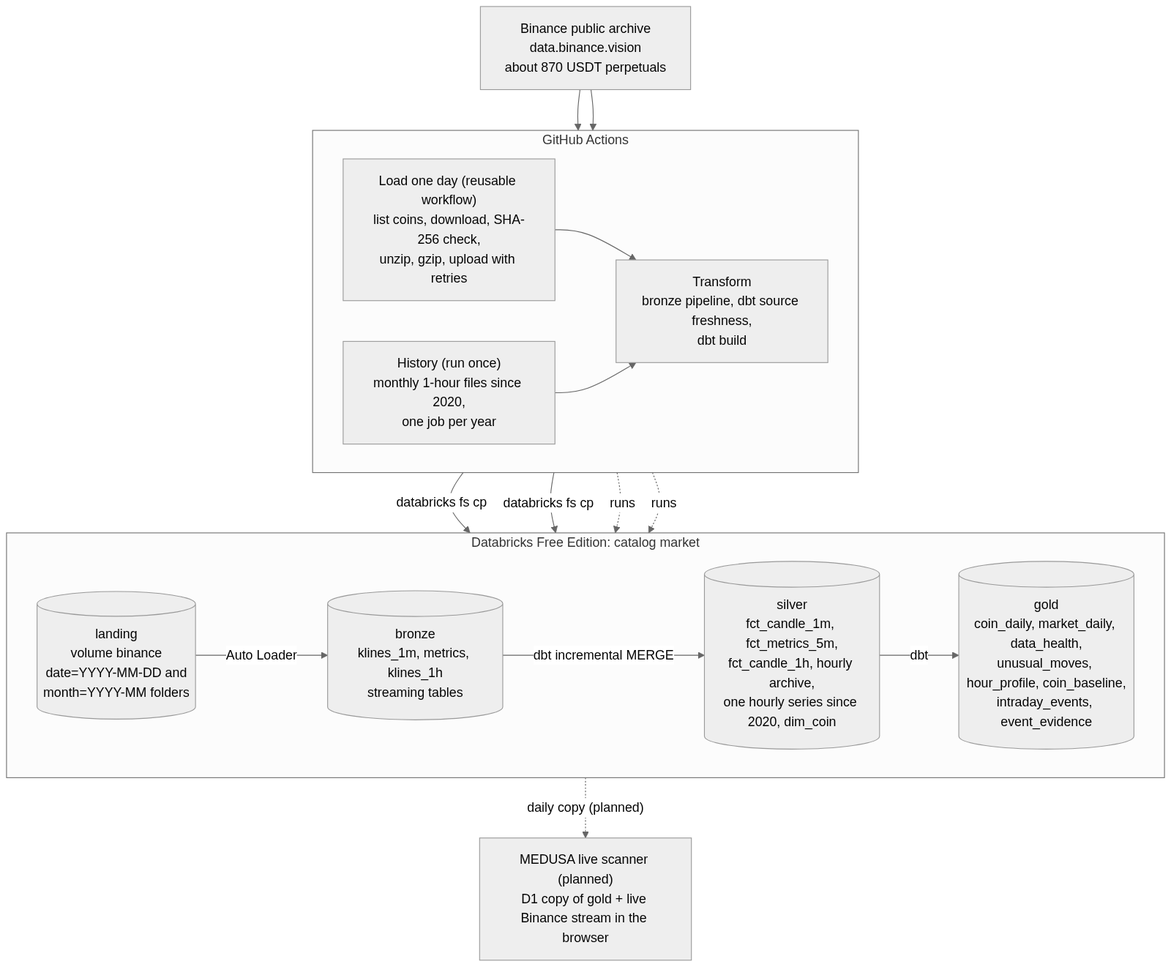
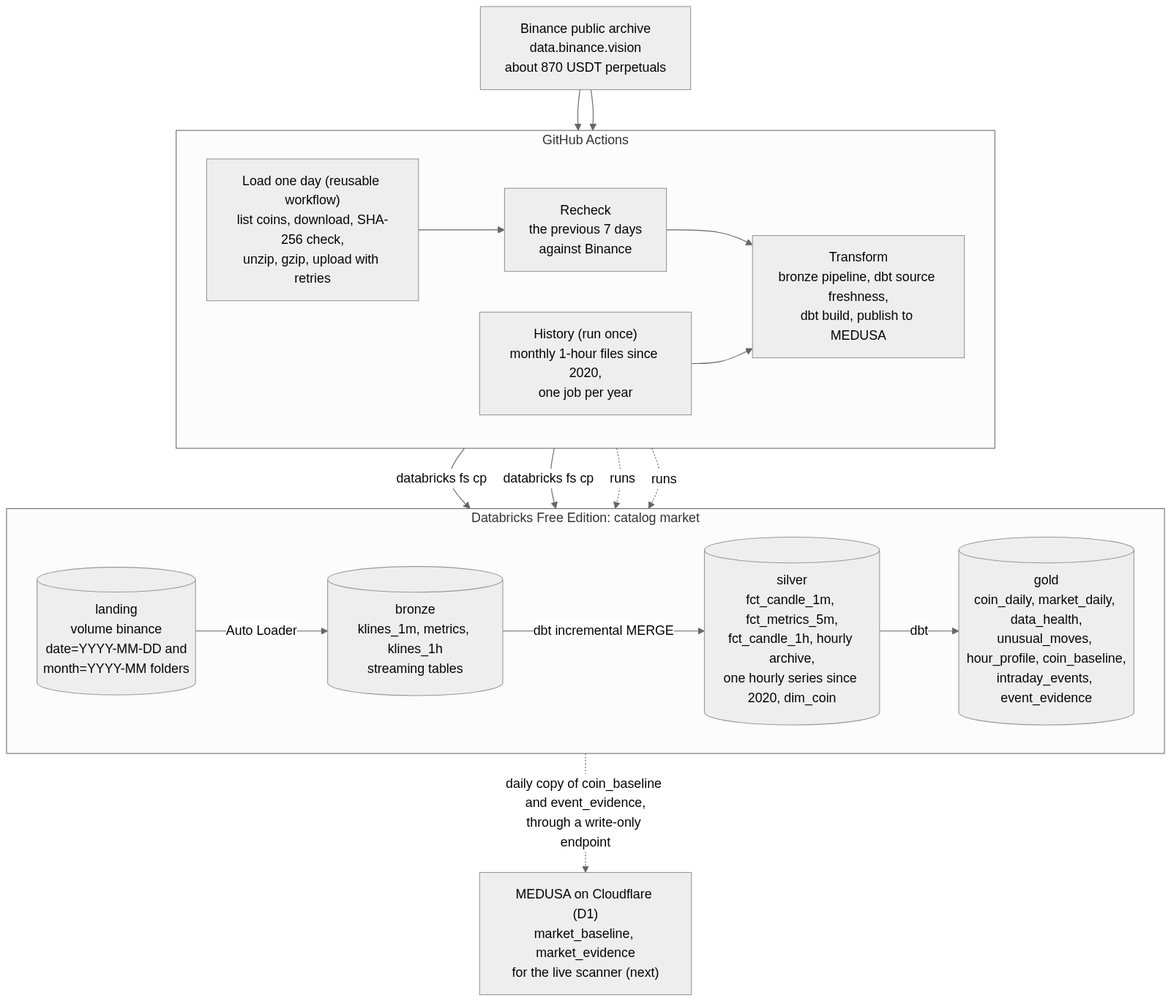
Docs: steps 23-24 (serving tables, publish job), ADR-024, updated diagrams

diff --git a/lakehouse/docs/operations.md b/lakehouse/docs/operations.md
@@ -11,6 +11,7 @@ How the platform runs day to day, and what to do when something goes wrong.
 | Download + upload (`Lakehouse daily load`, job `load`) | 13:23 UTC (18:53 India time), after Binance has published the previous day ([ADR-021](decisions.md#adr-021-load-a-day-only-after-binance-has-finished-publishing-it)). GitHub can start scheduled runs late, by minutes or even hours; the odd minute avoids the busiest start of the hour. | GitHub → **Actions** → Lakehouse daily load |
 | Re-check the previous 7 days (job `recheck`) | Right after the load | The same run's `recheck` job: one line per day ("1814 files checked, 0 changed, 0 new, 0 removed"); a yellow warning on the run's page when Binance changed a file ([ADR-023](decisions.md#adr-023-re-check-loaded-days-against-binance-for-a-week)) |
 | Bronze, freshness check, `dbt build` (job `transform`) | Right after a successful upload, in the same run | The same run's `transform` job; Databricks → **Jobs & Pipelines** → lakehouse-bronze for the pipeline |
+| Publish to MEDUSA (last step of `transform`) | Only after every dbt test passed | The run's summary page: a table of gold rows against MEDUSA rows per table, all "OK" ([ADR-024](decisions.md#adr-024-a-write-only-endpoint-for-the-serving-copy)) |
 | Check the result | After the run | The last line of `dbt build` in the log; `market.gold.data_health` for the new day |
 
 A failed scheduled run sends GitHub's failure email.
@@ -22,7 +23,8 @@ All `databricks` commands run from the `lakehouse/` folder.
 | Task | How |
 |---|---|
 | Load a range of past days | GitHub → Actions → **Lakehouse backfill** → Run workflow, first and last day (up to 60 days; 4 days at a time). Bronze and `dbt build` run at the end. |
-| Run only bronze and dbt | GitHub → Actions → **Lakehouse transform** → Run workflow |
+| Run only bronze and dbt (and publish to MEDUSA) | GitHub → Actions → **Lakehouse transform** → Run workflow |
+| See what MEDUSA holds | From the `medusa` folder: `npx wrangler@4 d1 execute medusa --remote --command "SELECT * FROM market_publish"` (one row per table: lakehouse day, rows, publish time) |
 | Load the hourly history | GitHub → Actions → **Lakehouse history** → Run workflow, first and last year (2020 to 2026 was loaded on 2026-10-20; one job per year, two at a time). Bronze and `dbt build` run at the end. Needed again only if the history must be rebuilt. |
 | Load a particular day | GitHub → Actions → Lakehouse daily load → **Run workflow**, type the date (`YYYY-MM-DD`). Safe to repeat: files are re-uploaded identically. |
 | Load new files into bronze | `databricks bundle run bronze` (only files not loaded before are read) |
@@ -59,6 +61,10 @@ A complete day has about 872 coins × 1,440 rows. A data-health table will autom
 | Download step: `FAILED ... checksum mismatch` | A file was damaged in transfer | Re-run; if it repeats, the file on Binance's side is broken: report and skip the day |
 | Warning "Binance changed files" on the run's page | Binance rewrote or added files after their day was loaded | Nothing to do: the recheck job loaded them and the transform rebuilt those days. The `recheck` log lists the files. |
 | `recheck` job failed (`FAILED ...` or an upload error); the transform still ran | A network problem while re-checking | **Re-run failed jobs**, or wait: the next day's run checks the same days again |
+| Step **Publish to MEDUSA** skipped | The `MEDUSA_URL` secret doesn't reach the job | Settings → Secrets and variables → Actions → **Secrets** tab → *Repository secrets* must list `MEDUSA_URL` and `MEDUSA_INGEST_TOKEN` (not under Variables, not an environment secret) |
+| Publish: `MEDUSA answered 401` | The GitHub secret `MEDUSA_INGEST_TOKEN` differs from the app's `MARKET_INGEST_TOKEN` | Make a new token and save it in both places (see Secrets below), then re-run the transform |
+| Publish: `MEDUSA answered 503` | The app has no `MARKET_INGEST_TOKEN` secret | `npx wrangler@4 secret put MARKET_INGEST_TOKEN` (the same value as the GitHub secret) |
+| Publish: `MISMATCH` | MEDUSA stored a different number of rows than gold sent | Re-run the transform; if it repeats, compare `market_publish` with the gold table |
 | The workflow doesn't appear under Actions | The workflow file isn't in `.github/workflows/` at the repository root | Move it there (`git mv`) |
 | Scheduled runs stopped | GitHub pauses schedules in public repositories after 60 days without commits | Actions → the workflow → **Enable workflow** |
 
@@ -76,6 +82,8 @@ A complete day has about 872 coins × 1,440 rows. A data-health table will autom
 | dbt token (`medusa-dbt-local`) | Windows user environment variable `DBT_ENV_SECRET_DATABRICKS_TOKEN` | 90 days after creation | Generate a new token, edit the variable, open a new terminal |
 | GitHub Actions token (`github-actions-medusa`) | GitHub secret `DATABRICKS_TOKEN` | ~18 January 2027 | Generate a new token in Databricks → GitHub Settings → Secrets → `DATABRICKS_TOKEN` → update → revoke the old token |
 | Workspace address | GitHub secret `DATABRICKS_HOST` | Never | Only if the workspace changes |
+| MEDUSA ingest token | Cloudflare secret `MARKET_INGEST_TOKEN` and GitHub secret `MEDUSA_INGEST_TOKEN` (the same value) | Never | If it may have leaked: generate a new one (`node -e "console.log(require('crypto').randomBytes(32).toString('base64url'))"`), `npx wrangler@4 secret put MARKET_INGEST_TOKEN`, update the GitHub secret |
+| MEDUSA's address | GitHub secret `MEDUSA_URL` | Never | Only if the app's address changes |
 
 Tokens are never pasted into chat, files or commits. A secret's value is never shown again after
 saving; it can only be replaced.

diff --git a/lakehouse/docs/steps/23-serving-tables.md b/lakehouse/docs/steps/23-serving-tables.md
@@ -1,0 +1,89 @@
+# Step 23: Serving tables in MEDUSA, behind a write-only endpoint
+
+[← Lakehouse home](../../README.md) · [← Step 22](22-evidence.md) · Next: [Step 24 →](24-publish-job.md)
+
+| | |
+|---|---|
+| **Built** | 2026-10-23 |
+| **Commit** | `82f5084` App: market tables in D1 and a write-only ingest endpoint for the lakehouse (serving layer) |
+| **Files** | [`migrations/003_market.sql`](../../../migrations/003_market.sql) · [`schema.sql`](../../../schema.sql) · [`src/market.js`](../../../src/market.js) · [`src/worker.js`](../../../src/worker.js) |
+| **Decisions** | [ADR-013](../decisions.md#adr-013-serve-the-public-dashboard-from-a-daily-copy) · [ADR-024](../decisions.md#adr-024-a-write-only-endpoint-for-the-serving-copy) |
+
+## Goal
+
+The live scanner runs in MEDUSA on Cloudflare, but each coin's normal and the evidence live in
+Databricks, where visitors can't sign in. MEDUSA keeps its own small copy of those two tables in its
+database (D1), and gets a single, narrow way in for the daily copy.
+
+## Concepts
+
+| Concept | Here |
+|---|---|
+| **Serving layer (reverse ETL)** | Finished warehouse tables are copied to where an application reads them fast and for free; the warehouse stays private. |
+| **Least privilege** | The publish job could have had a Cloudflare database token, but that would open every table, including accounts and encrypted exchange keys. Instead one endpoint, with its own token, can only replace two public market tables. A leaked token could overwrite market numbers, nothing more (ADR-024). |
+| **A contract at the boundary** | Every row is checked before anything is written: a known table, known columns, the right type for each, required values present, no key twice, at most 2 MB. A bad request is refused with the row and column. |
+| **Atomic replace** | Deleting the old rows, inserting the new ones and recording the publish run as one D1 batch, which is a single transaction: a reader sees yesterday's copy or today's, never half of each. |
+| **Idempotent** | Sending the same table twice leaves the same table. |
+| **Working inside 10 ms of CPU** | Cloudflare's free plan allows about 10 ms of CPU per request. SQLite unpacks the rows itself (`json_each`) from the request's text, so the Worker doesn't build a statement per row. |
+| **Constant-time token check** | Both tokens are hashed (SHA-256) and compared with `crypto.subtle.timingSafeEqual`, so response times don't reveal how much of a guess was right. |
+
+## Code walkthrough
+
+The tables ([`migrations/003_market.sql`](../../../migrations/003_market.sql)) have no `user_id`:
+they are shared market data, like `logos`.
+
+| Table | Rows | From |
+|---|---|---|
+| `market_baseline` | One per coin (key `symbol`) | `gold.coin_baseline` |
+| `market_evidence` | One per kind of move and horizon (key `direction, z_band, liquidity, horizon_hours`) | `gold.event_evidence` |
+| `market_publish` | One per table: lakehouse day, rows, time of the publish | Written by the endpoint |
+
+The endpoint ([`src/market.js`](../../../src/market.js)) is routed before the browser-only checks,
+because its caller is a server with a token, not a browser with a cookie:
+
+```js
+// POST /api/market/ingest  {"table": "market_baseline", "as_of": "2026-10-21", "rows": [...]}
+await db.batch([
+  db.prepare(`DELETE FROM ${body.table}`),
+  db.prepare(`INSERT INTO ${body.table} (${cols.join(', ')})
+              SELECT ${cols.map((c) => `json_extract(value, '$.${c}')`).join(', ')} FROM json_each(?1, '$.rows')`)
+    .bind(text),
+  db.prepare(`INSERT INTO market_publish ... ON CONFLICT(tbl) DO UPDATE ...`),
+  db.prepare(`SELECT COUNT(*) AS n FROM ${body.table}`),
+]);
+```
+
+Table and column names come from the endpoint's own list, never from the request.
+
+## How to run
+
+```
+npx wrangler@4 d1 execute medusa --remote --file=migrations/003_market.sql
+node -e "console.log(require('crypto').randomBytes(32).toString('base64url'))"
+npx wrangler@4 secret put MARKET_INGEST_TOKEN        (paste the token)
+npx wrangler@4 deploy
+```
+
+The same token is saved as the GitHub Actions secret `MEDUSA_INGEST_TOKEN`, and the app's address as
+`MEDUSA_URL`, for step 24. A request without the token is answered `401 Wrong or missing token.`
+
+## Result
+
+On a local copy of the app with a test token, 16 of 16 checks passed:
+
+| Check | Answer |
+|---|---|
+| No token, wrong token | 401 |
+| Not JSON, unknown table, bad date, unknown column, wrong type, same key twice, required value empty, no rows | 400, naming the row and column |
+| A 3 MB body | 413 |
+| The real `coin_baseline` (748 coins) and `event_evidence` (60 rows) | Stored; Bitcoin's row identical to gold |
+| Publishing 10 rows, then 60 | The table held exactly 10, then 60 |
+| The app's other POST routes | Still refuse requests from outside the app (403) |
+
+In production the three tables were created and the secret saved; the endpoint answered `401` without
+the token and accepted the real token.
+
+## Problems we hit
+
+A test that announced a 3 MB body but sent a small one hung: the local server waited for bytes that
+never came. The test now sends a real 3 MB body.

diff --git a/lakehouse/docs/steps/24-publish-job.md b/lakehouse/docs/steps/24-publish-job.md
@@ -1,0 +1,69 @@
+# Step 24: Publish job: gold into MEDUSA after every transform
+
+[← Lakehouse home](../../README.md) · [← Step 23](23-serving-tables.md)
+
+| | |
+|---|---|
+| **Built** | 2026-10-23 |
+| **Commit** | `f2a4f2f` Lakehouse: publish coin_baseline and event_evidence to MEDUSA after each transform, with a row-count reconciliation (step 24) |
+| **Files** | [`serving/publish_to_medusa.py`](../../serving/publish_to_medusa.py) · [`.github/workflows/lakehouse-transform.yml`](../../../.github/workflows/lakehouse-transform.yml) |
+| **Decisions** | [ADR-024](../decisions.md#adr-024-a-write-only-endpoint-for-the-serving-copy) |
+
+## Goal
+
+Keep MEDUSA's copy current without anyone touching it: after each daily transform, copy the scanner's
+two gold tables through the step 23 endpoint and prove the copy is complete.
+
+## Concepts
+
+| Concept | Here |
+|---|---|
+| **Publish only tested data** | The step runs after `dbt build`. If any of the 111 tests fails, the job stops first and MEDUSA keeps the last checked copy. |
+| **Reconciliation across systems** | A copy isn't done until both sides are counted: MEDUSA must report exactly as many rows as gold, or the step fails (failure email). |
+| **Idempotent, safe to retry** | Each table is replaced as a whole, so re-running the transform republishes the same data. Network and server errors are retried twice. |
+| **Secrets stay secrets** | The app's address and the token are GitHub repository secrets, masked in logs; without `MEDUSA_URL` the step is skipped instead of failing. |
+| **One tool for both places** | The script reaches Databricks through the Databricks CLI, which is signed in by environment variables in GitHub Actions and by the CLI profile on a developer's computer, so the script holds no credentials itself. |
+
+## Code walkthrough
+
+```python
+warehouse = warehouse_id()                         # found by name, never stored
+as_of = query(warehouse, AS_OF)[0]["as_of"]        # newest day in gold.coin_daily
+for table, sql in TABLES.items():                  # market_baseline, market_evidence
+    rows = query(warehouse, sql)                   # SQL Statement API, typed from the result schema
+    answer = send(f"{url}/api/market/ingest", token, {"table": table, "as_of": as_of, "rows": rows})
+    ok = answer.get("ok") is True and answer.get("rows") == len(rows)
+```
+
+The run's summary page gets a table of gold rows against MEDUSA rows. The workflow step:
+
+```yaml
+- name: Publish to MEDUSA
+  if: ${{ env.MEDUSA_URL != '' }}
+  env:
+    MEDUSA_INGEST_TOKEN: ${{ secrets.MEDUSA_INGEST_TOKEN }}
+  run: python serving/publish_to_medusa.py
+```
+
+## How to run
+
+It runs at the end of every transform: daily, after a backfill, or by hand (Actions → **Lakehouse
+transform** → **Run workflow**). To see what MEDUSA holds:
+
+```
+npx wrangler@4 d1 execute medusa --remote --command "SELECT * FROM market_publish"
+```
+
+## Result
+
+| Run | Result |
+|---|---|
+| Local test, real gold into a local MEDUSA | 748 of 748 and 60 of 60 rows; a wrong token fails both tables (exit 1); no settings stops with a message |
+| Production, 2026-10-22 23:46 UTC | **Publish to MEDUSA** took 5 seconds: `market_baseline` 748 rows and `market_evidence` 60 rows, lakehouse day 2026-10-21; Bitcoin's and Ether's values identical to gold |
+
+## Problems we hit
+
+The first production run skipped the step: `MEDUSA_URL` hadn't reached the job, because the secret
+wasn't saved as a repository secret. Saved under **Secrets → Repository secrets**, the next run
+published. Variables would not have worked either: they are not masked in logs and are not
+`secrets.*`.

diff --git a/lakehouse/docs/architecture.md b/lakehouse/docs/architecture.md
@@ -26,7 +26,7 @@ flowchart TB
     L --> BR --> SI --> GO
   end
   D2 --> L
-  GO -.->|"daily copy (planned)"| CF["MEDUSA live scanner<br>Cloudflare D1 + live Binance stream"]
+  GO -.->|"daily copy: publish job, write-only endpoint"| CF["MEDUSA on Cloudflare D1<br>market_baseline · market_evidence<br>(live scanner page next)"]
 ```
 
 ## Where each part runs
@@ -39,7 +39,8 @@ flowchart TB
 | Silver and gold | dbt Core on the SQL warehouse | SQL models with tests, snapshots, documentation and lineage. |
 | Orchestration | GitHub Actions: load, then transform ([ADR-017](decisions.md#adr-017-orchestrate-the-daily-chain-in-github-actions)) | One place for the whole chain, one set of secrets and one failure email. |
 | Deploying Databricks resources | Databricks Asset Bundle ([`databricks.yml`](../databricks.yml)) | Jobs and pipelines are defined as code and deployed with one command. |
-| Live scanner (planned) | MEDUSA on Cloudflare, with live prices streamed from Binance to the browser | Readers can't sign in to a Databricks workspace, and day trading needs today's prices: a daily copy of the small gold tables in MEDUSA's database gives each coin's normal, and the browser compares the live market with it. |
+| Serving copy | MEDUSA's database (Cloudflare D1): `market_baseline`, `market_evidence`, filled by the publish job through `POST /api/market/ingest` ([ADR-024](decisions.md#adr-024-a-write-only-endpoint-for-the-serving-copy)) | Readers can't sign in to a Databricks workspace, and a public page querying Databricks would wake the warehouse on every visit. The endpoint's own token can only replace these tables. |
+| Live scanner (next) | MEDUSA on Cloudflare, with live prices streamed from Binance to the browser | Day trading needs today's prices: the browser compares the live market with the serving copy. |
 
 ## Catalog layout
 
@@ -64,6 +65,7 @@ SQL Server.
 | 13:23 | GitHub Actions downloads every coin's files (~1 minute), checks they are all published and match their checksums, and uploads them with the day's manifest (~2.5 minutes in total); a day that isn't fully published stops here ([ADR-021](decisions.md#adr-021-load-a-day-only-after-binance-has-finished-publishing-it)) |
 | Right after | Recheck: the previous 7 days' manifests are compared with Binance's fingerprints, and changed or new files are loaded under new names ([ADR-023](decisions.md#adr-023-re-check-loaded-days-against-binance-for-a-week)) |
 | Right after | The same run's `transform` job: bronze pipeline, `dbt source freshness`, `dbt build` (silver and gold, with tests) |
+| Right after | Publish to MEDUSA: `coin_baseline` and `event_evidence` copied through the write-only endpoint, row counts reconciled (5 seconds) |
 
 ## Volumes of data
 

diff --git a/lakehouse/docs/decisions.md b/lakehouse/docs/decisions.md
@@ -31,6 +31,7 @@ entry replaces it and the old one is marked *Superseded*.
 | 021 | [Load a day only after Binance has finished publishing it](#adr-021-load-a-day-only-after-binance-has-finished-publishing-it) | Accepted; replaces the 06:00 UTC time in ADR-003 |
 | 022 | [Judge the evidence by days and on held-back years](#adr-022-judge-the-evidence-by-days-and-on-held-back-years) | Accepted |
 | 023 | [Re-check loaded days against Binance for a week](#adr-023-re-check-loaded-days-against-binance-for-a-week) | Accepted |
+| 024 | [A write-only endpoint for the serving copy](#adr-024-a-write-only-endpoint-for-the-serving-copy) | Accepted; builds ADR-013 |
 
 ---
 
@@ -430,4 +431,28 @@ cost of about 12,700 small checksum requests a day (one to two minutes). Older d
 re-checked. Rows that a rewrite removes would stay in silver (MERGE adds and updates, it doesn't
 delete); none have been seen. A failed recheck fails the run (failure email) but doesn't hold back
 the new day's transform. Days loaded before 2026-10-23 have no manifest and are skipped.
+
+## ADR-024: A write-only endpoint for the serving copy
+
+**Status:** Accepted, 2026-10-23. How ADR-013's daily copy is built.
+
+**Context:** The live scanner needs `coin_baseline` and `event_evidence` in MEDUSA's database (D1).
+The publish job runs in GitHub Actions. It could write to D1 with a Cloudflare API token, but a token
+that can write D1 can read and change every table: accounts, password hashes, encrypted exchange
+keys. Such a token stored outside Cloudflare would be the most valuable secret in the project.
+
+**Decision:**
+- MEDUSA exposes `POST /api/market/ingest`, protected by its own secret (`MARKET_INGEST_TOKEN`,
+  compared in constant time). It can only replace the tables in its own list (`market_baseline`,
+  `market_evidence`); table and column names never come from the request.
+- Every row is validated (columns, types, required values, unique keys, size) before anything is
+  written. Each table is replaced in one D1 batch, a single transaction, together with a
+  `market_publish` row (day, rows, time).
+- The publish job runs after `dbt build` and fails unless MEDUSA reports exactly gold's row count.
+
+**Consequences:** A leaked ingest token could overwrite public market numbers until the next daily
+publish, and nothing else; rotating it means saving a new value in Cloudflare and GitHub. The
+endpoint is public, so it is a little more attack surface than a private database API, which the
+token and validation cover. The payload is limited to 2 MB and the request to Cloudflare's free CPU
+budget, so a much larger table would need to be sent in parts.
 

diff --git a/README.md b/README.md
@@ -141,6 +141,16 @@ node -e "process.stdout.write(require('crypto').randomBytes(32).toString('base64
 
 To publish changes later, run `npx wrangler@4 deploy` again.
 
+**Market data from the lakehouse (optional).** The live scanner reads a daily copy of the market data
+lakehouse's tables (`lakehouse/README.md`). The tables are in `schema.sql`; an older install creates
+them with `npx wrangler@4 d1 execute medusa --remote --file=migrations/003_market.sql`. The copy
+arrives through `POST /api/market/ingest`, which only accepts requests carrying the
+`MARKET_INGEST_TOKEN` secret and can only replace those tables. Generate a token with
+`node -e "console.log(require('crypto').randomBytes(32).toString('base64url'))"`, save it with
+`npx wrangler@4 secret put MARKET_INGEST_TOKEN`, and save the same value as the GitHub Actions secret
+`MEDUSA_INGEST_TOKEN` (with the app's address as `MEDUSA_URL`). Without the secret, the endpoint
+answers 503 and nothing else changes.
+
 **Release version:** it is kept in one place, `public/version.json` (the number, the date and what changed), and shown at the bottom of the menu on the left and on the sign-in page. When you publish a new release, raise the number there (for example 1.2.0 → 1.3.0) and add a section with the same number to `CHANGELOG.md`, which keeps every version and what changed in it.
 
 ## Your CoinDCX key and how it's protected
@@ -232,8 +242,9 @@ The Lab's folders use Workers KV: 1 GB in total, 100,000 reads and 1,000 writes 
 - `src/sync.js`: the import (small steps, only new data)
 - `src/trades.js`: turns orders into closed trades, and finds each trade's stop loss and take profit
 - `src/logos.js`: coin logos
+- `src/market.js`: the market copy for the live scanner: `POST /api/market/ingest`, write-only, with its own token
 - `schema.sql`: the database tables (for a new install)
-- `migrations/`: upgrading a single-password database to accounts (`001_accounts.sql`, then `claim.sql`); the Lab's tables (`002_lab.sql`, optional)
+- `migrations/`: upgrading a single-password database to accounts (`001_accounts.sql`, then `claim.sql`); the Lab's tables (`002_lab.sql`, optional); the market copy for the live scanner (`003_market.sql`)
 - `wrangler.example.toml`: the Cloudflare settings, without anyone's ids; copy it to `wrangler.toml` (step 4)
 - `CHANGELOG.md`: every release and what changed in it (the current version is in `public/version.json`)
 - `docs/images/`: the screenshots in this README

diff --git a/lakehouse/docs/glossary.md b/lakehouse/docs/glossary.md
@@ -36,6 +36,7 @@ The data engineering terms used in this project, in plain words.
 | **Landing zone** | Where raw files arrive, unchanged, before any processing | `market.landing.binance` |
 | **Lineage** | Knowing where each piece of data came from | `source_file`, `loaded_at` |
 | **Liquid clustering** | Delta's way of keeping data files grouped by chosen columns as data arrives, replacing partitions and Z-ordering | Silver tables |
+| **Least privilege** | Giving each credential only the access its job needs, so a leak does as little harm as possible | MEDUSA's ingest token can only replace two market tables ([ADR-024](decisions.md#adr-024-a-write-only-endpoint-for-the-serving-copy)) |
 | **Look-ahead bias** | Using information that wasn't available at the time, which makes history look better than live results | Avoided: each day's normal uses only earlier days |
 | **Manifest** | A list of the files a load produced, with each file's fingerprint, kept so the load can be checked against the source later | `manifests/date=…/manifest.csv` ([ADR-023](decisions.md#adr-023-re-check-loaded-days-against-binance-for-a-week)) |
 | **Matrix job** | GitHub Actions running the same job once per value in a list, several at a time | The backfill |
@@ -46,7 +47,7 @@ The data engineering terms used in this project, in plain words.
 | **Rescued data** | A column that catches values that didn't fit the expected file layout, instead of losing them | `_rescued_data` |
 | **Retention** | How long each kind of data is kept | [ADR-011](decisions.md#adr-011-keep-1-minute-candles-for-a-limited-time) |
 | **Reusable workflow** | A GitHub Actions workflow other workflows call, so shared steps live in one place | `lakehouse-load-day.yml` |
-| **Reverse ETL / serving layer** | Copying finished warehouse tables to where an app can serve them | The planned live scanner in MEDUSA |
+| **Reverse ETL / serving layer** | Copying finished warehouse tables to where an app can serve them | `market_baseline` and `market_evidence` in MEDUSA's D1, published after each transform |
 | **SCD Type 2** | Keeping the full history of a dimension's changes, one row per version | `dim_coin` |
 | **Schema drift** | A source changing its columns or format over time | Caught by `_rescued_data` |
 | **Schema-on-read** | Applying column names and types when reading files, not when storing them | `read_files` in bronze |

diff --git a/lakehouse/docs/faq.md b/lakehouse/docs/faq.md
@@ -10,7 +10,7 @@ Short answers to the questions people ask first, with links to the detailed page
 |---|---|---|
 | **Lakehouse daily load** (`lakehouse-daily.yml`) | Automatically every day at 13:23 UTC (18:53 India time); GitHub can start it late. Also a **Run workflow** button with an optional date. | The main job: "load one day" for yesterday, re-check the 7 days before against Binance, then "transform" if the load succeeded |
 | **Lakehouse load one day** (`lakehouse-load-day.yml`) | Never on its own: the daily load and the backfill call it | Download one day for every coin, check it, upload it to Databricks |
-| **Lakehouse transform** (`lakehouse-transform.yml`) | After every successful load, or by hand | Bronze pipeline, source freshness, `dbt build` of silver and gold with all tests |
+| **Lakehouse transform** (`lakehouse-transform.yml`) | After every successful load, or by hand | Bronze pipeline, source freshness, `dbt build` of silver and gold with all tests, then publish the scanner's tables to MEDUSA |
 | **Lakehouse backfill** (`lakehouse-backfill.yml`) | Only by hand, with a first and last day (up to 60) | Loads past days, 4 at a time, then runs the transform once |
 | **Lakehouse history** (`lakehouse-history.yml`) | Only by hand, with a first and last year | Loads Binance's monthly hourly files, one job per year, then the transform. Ran once, on 2026-10-20 |
 
@@ -24,6 +24,9 @@ Short answers to the questions people ask first, with links to the detailed page
    Binance's fingerprints now, and load any file Binance changed or added since.
 3. **Transform (about 5 minutes)**: the bronze pipeline loads only the new files; `dbt source
    freshness` checks bronze is recent; `dbt build` updates silver and gold and runs 111 tests.
+4. **Publish to MEDUSA (about 5 seconds)**: `coin_baseline` and `event_evidence` are copied into
+   MEDUSA's database through its write-only endpoint, and MEDUSA must report the same row counts as
+   gold.
 
 A failure at any point stops the rest and sends GitHub's failure email.
 

diff --git a/lakehouse/docs/data-dictionary.md b/lakehouse/docs/data-dictionary.md
@@ -405,3 +405,22 @@ spreads and t-statistics are over days, not events: each day's events are averag
 **What the data looks like (2026-10-22):** 35 *no pattern*, 15 *too few*, 6 *did not hold*, 4 *held
 up*, all fades: down 4–6σ on mid-sized coins over 1 hour (held back: +4.11% after cost), up 6σ+ on
 mid-sized coins over 24 hours (+12.20%), and every up move over 1 hour (+0.23%) and 4 hours (+0.66%).
+
+## Serving: MEDUSA's copy (Cloudflare D1)
+
+After every transform, the publish job ([step 24](steps/24-publish-job.md)) copies two gold tables
+into MEDUSA's database through `POST /api/market/ingest`
+([ADR-024](decisions.md#adr-024-a-write-only-endpoint-for-the-serving-copy)). Each table is replaced as
+a whole in one transaction. They are shared by every account and have no `user_id`
+([`migrations/003_market.sql`](../../migrations/003_market.sql)).
+
+| D1 table | Key | From | Columns |
+|---|---|---|---|
+| `market_baseline` | `symbol` | `gold.coin_baseline` | `symbol`, `base_asset`, `status`, `as_of_date`, `last_close`, `history_days`, `avg_return_30d`, `sd_return_30d`, `avg_abs_return_30d`, `avg_quote_volume_30d`, `avg_log_volume_30d`, `sd_log_volume_30d`, `avg_abs_hour_return_30d` |
+| `market_evidence` | `direction`, `z_band`, `liquidity`, `horizon_hours` | `gold.event_evidence` | The key, `events`, `days`, `avg_continuation`, `median_continuation`, `hit_rate`, `in_sample_days`, `in_sample_avg_continuation`, `in_sample_t`, `held_back_days`, `held_back_avg_continuation`, `held_back_t`, `held_back_hit_rate`, `side`, `held_back_net_after_cost`, `verdict`, `round_trip_cost` |
+| `market_publish` | `tbl` | Written by the endpoint | `tbl`, `as_of` (the lakehouse day), `rows`, `published_at` (ms) |
+
+Types follow SQLite: text, `REAL` for numbers, `INTEGER` for counts; dates are `YYYY-MM-DD` text.
+
+**What the data looks like (2026-10-22 23:46 UTC):** `market_baseline` 748 rows and `market_evidence`
+60 rows, lakehouse day 2026-10-21, matching gold exactly.

diff --git a/CHANGELOG.md b/CHANGELOG.md
@@ -3,6 +3,10 @@
 Every release of MEDUSA, newest first. The current version is in `public/version.json` (shown in the
 app's menu and on the sign-in page); each release adds a section here with the same number.
 
+## Unreleased
+
+- Server: a daily copy of the market data lakehouse's tables for the coming live scanner: each coin's normal (`market_baseline`) and what similar moves did next (`market_evidence`), with `market_publish` recording each copy. They arrive through `POST /api/market/ingest`, which needs its own token (`MARKET_INGEST_TOKEN`), checks every row, can only replace these tables, and swaps a table in one transaction. Nothing changes in the app yet.
+
 ## 1.5.0 (2026-10-20)
 
 - Chart: **Long position** and **Short position** drawing tools. Click the entry, then the stop loss, then the take profit (clicking it 3 or more candles to the right sets where the box ends; otherwise the box is 30 candles long). The box shows the take profit (green) and stop loss (red) zones, the risk/reward, and what the candles after it did: the entry filled (a market entry when it is the close of its candle, else a limit or a stop order at the entry price), then the take profit, the stop loss or the box's end. Click a position to choose it: drag its handles (entry, stop loss, take profit, the box's end) or the whole box, or type its prices in its panel, which also shows the risk, reward and size in money. **To short** / **To long** turns it around; **Delete** removes it (Ctrl+Z brings it back). Positions are kept with the coin's other drawings.

diff --git a/lakehouse/README.md b/lakehouse/README.md
@@ -66,7 +66,9 @@ flowchart LR
 | [20. Hourly history](docs/steps/20-hourly-history.md) | Every USDT perpetual's hourly candles since January 2020 from Binance's monthly files (22,221 files, 15.9 million rows) | Done |
 | [21. Silver hourly history](docs/steps/21-silver-hourly-history.md) | Typed archive hours, one continuous series since 2020, the two hourly sources reconciled (and an open/high/low fix it found) | Done |
 | [22. Evidence](docs/steps/22-evidence.md) | Every unusual intraday move since 2020 and what followed over 1, 4 and 24 hours, judged by days and on held-back years | Done |
-| 23. Serving tables | `coin_baseline` and `event_evidence` copied into MEDUSA's database for the live scanner | Next |
+| [23. Serving tables](docs/steps/23-serving-tables.md) | MEDUSA's copy of `coin_baseline` and `event_evidence` in D1, filled through a write-only endpoint with its own token | Done |
+| [24. Publish job](docs/steps/24-publish-job.md) | After every transform, gold is copied into MEDUSA and the row counts reconciled | Done |
+| 25. Scanner page | The live scanner in MEDUSA: live Binance prices against each coin's normal, with the evidence | Next |
 
 ## Folder layout
 

diff --git a/lakehouse/docs/steps/22-evidence.md b/lakehouse/docs/steps/22-evidence.md
@@ -1,6 +1,6 @@
 # Step 22: Evidence: what moves like today's did next
 
-[← Lakehouse home](../../README.md) · [← Step 21](21-silver-hourly-history.md)
+[← Lakehouse home](../../README.md) · [← Step 21](21-silver-hourly-history.md) · Next: [Step 23 →](23-serving-tables.md)
 
 | | |
 |---|---|
